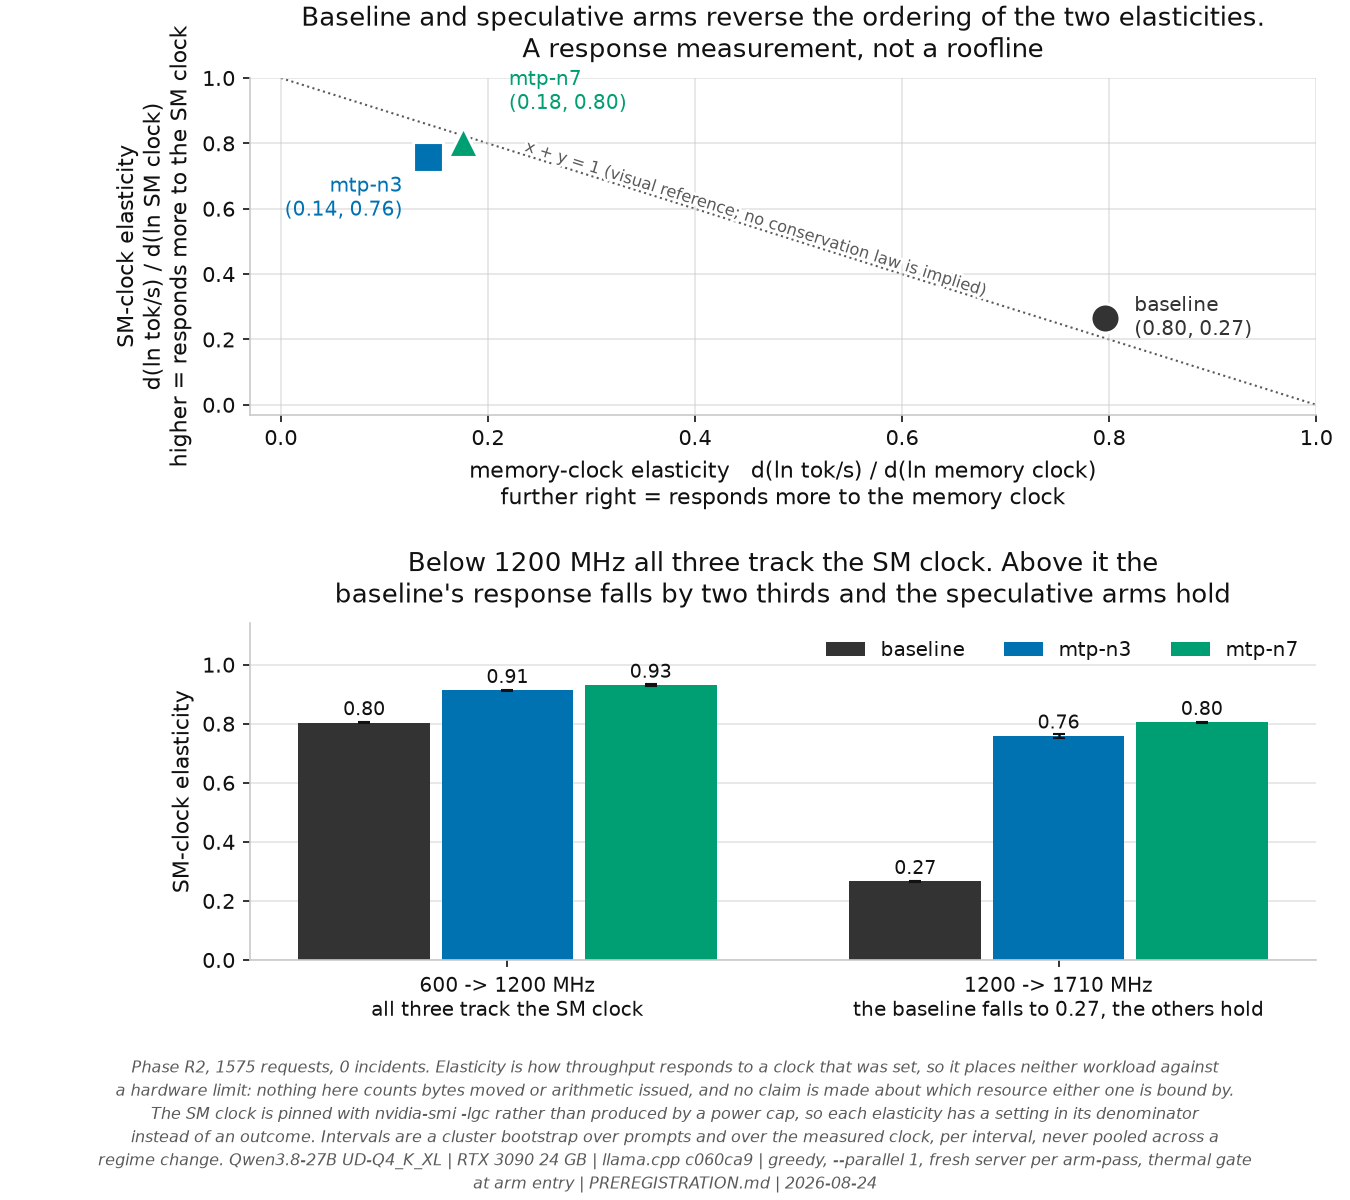
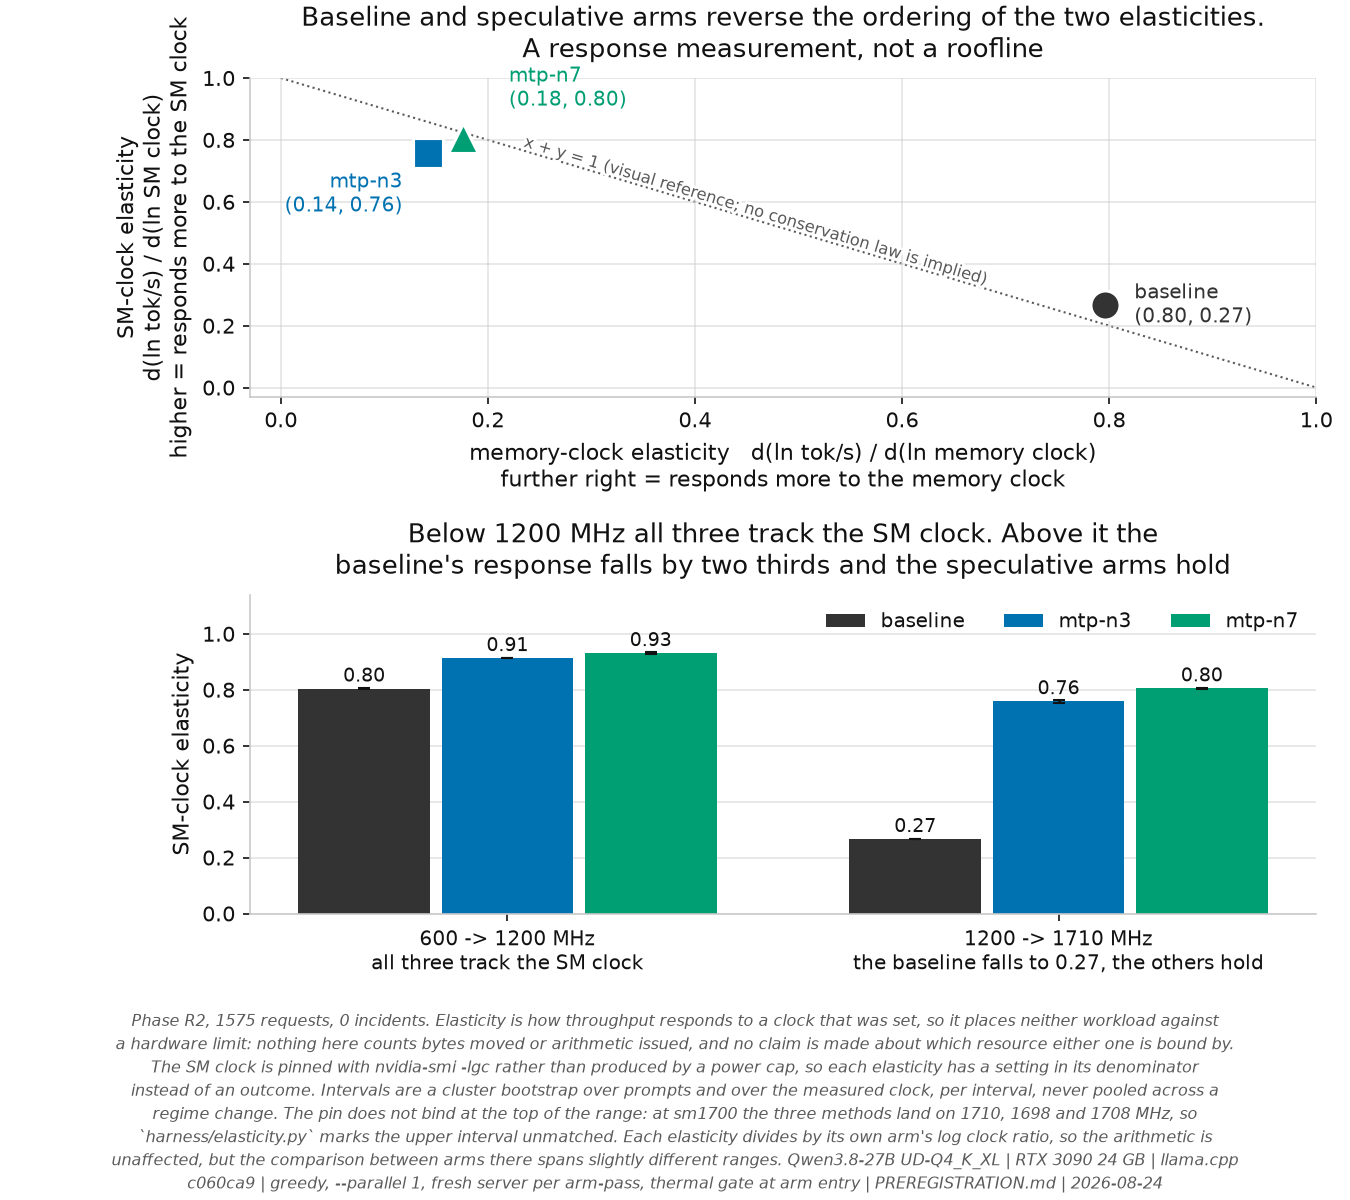
figures: a withdrawn claim survived in a caption, because the guard for it read only markdown
An audit of the figures for overstatement, done twice over: the drawn strings
extracted from the plotting modules and checked as text, and the rendered PNGs
read as pictures, because axis limits and missing intervals are how a figure
overstates and no grep finds them.

**The caption of plot_width_partition.png said the four-build intervention
"rules out warp count as the cause".** That exact phrase is already on
`test_no_committed_document_still_carries_a_withdrawn_claim`'s list of claims
this study has withdrawn. Every one of the six warp reports refuses it:
warp_intervention, _down2, _hostB and _down2_hostB all end COMPARISON VOID
under the registered gate "intervention did not touch widths it should not
have", and the two v2 reports say the edit "never reached the kernel. Resolve
that before reading anything else here." docs/GREEDY_DIVERGENCE.md states it
correctly -- "the intervention does not support the warp count as the cause" --
and the documents were clean, because the guard scanned `git ls-files "*.md"`
and a figure caption is not markdown. The caption now says what the document
says, names the 3-of-18 result behind it, and says the four-build set is void
on its own gates.

**plot_bound_by.png drew a between-method contrast from an interval its own
report marks unmatched.** At sm1700 the pin does not bind and the three methods
land on 1710, 1698 and 1708 MHz, over the 0.5 % spread that makes
[…]

diff --git a/harness/test_harness.py b/harness/test_harness.py
@@ -4023,19 +4023,44 @@ class TestReadmeSaysWhatTheArtifactsSay(unittest.TestCase):
                   "costs a fixed c", "rules out warp count")
         marks = ("withdraw", "Withdraw", "used to read", "an earlier version", "earlier draft",
                  "no longer", "retract")
+        # Markdown was the whole of this check, and "rules out warp count" -- on this very list,
+        # withdrawn because every one of the six warp reports is either COMPARISON VOID or says
+        # the edited table row never reached the kernel -- survived in the caption of
+        # plot_width_partition.png, which is the figure the README leads a section with. The
+        # documents were clean; the picture was not. The prose surfaces built for the attribution
+        # checks are reused here rather than restated, so the two cannot drift apart.
+        _P = AClaimAboutWhatOthersDidNeedsEvidenceOfWhatTheyDid
+        names = [n for n in out.stdout.split("\n") if n]
+        names += _P._python_prose() + tracked_shell() + tracked_metadata()
         found = []
-        for name in out.stdout.split("\n"):
-            if not name or "PREREGISTRATION" in name or name.startswith(("upstream/", "llamacpp")):
+        for name in names:
+            if "PREREGISTRATION" in name or name.startswith(("upstream/", "llamacpp")):
                 continue
             f = self.ROOT / name
             if not f.exists():
                 continue
-            for i, line in enumerate(f.read_text(encoding="utf-8", errors="replace").splitlines(), 1):
+            markdown = name.endswith(".md")
+            text = f.read_text(encoding="utf-8", errors="replace") if markdown \
+                else _P._prose_of(f)
+            # Use, not mention -- the same rule `_sentences` applies, and for the same reason:
+            # prose that quotes a withdrawn claim in order to say it is withdrawn is not
+            # asserting it. Five of the first six hits after this check was widened were of that
+            # shape, including one in this file. Blanked over the whole text rather than per
+            # line, because a quotation wraps: `plot_phase_m.py` opens the quote and says "It
+            # used to read" on one line and closes it on the next, so a per-line pass saw
+            # neither the mark nor the opening quote.
+            text = re.sub(r'"[^"]{0,240}"', " ", text, flags=re.S)
+            text = re.sub(r"`[^`]{0,240}`", " ", text, flags=re.S)
+            for i, line in enumerate(text.splitlines(), 1):
                 if any(m in line for m in marks):
                     continue
                 for c in claims:
                     if c in line:
-                        found.append(f"{name}:{i} {c!r}")
+                        # For markdown the index IS the file line. For the other surfaces it is
+                        # an index into extracted prose, which would print as a line number and
+                        # point at unrelated code, so those report the sentence instead.
+                        where = f"{name}:{i}" if markdown else f"{name}"
+                        found.append(f"{where} {c!r} in {line.strip()[:90]!r}")
         self.assertFalse(found,
                          "these lines assert something this study has withdrawn, and do not mark "
                          "themselves as quoting it: " + "; ".join(found))
@@ -6954,6 +6979,26 @@ class AClaimAboutWhatOthersDidNeedsEvidenceOfWhatTheyDid(unittest.TestCase):
                     out.append(t.string)
         except Exception:                                          # noqa: BLE001
             pass
+        # In a plotting module the string literals ARE the product: a title, a caption and an
+        # annotation reach the reader as pixels, and nothing else here does. Skipping them is
+        # what let "rules out warp count" -- a phrase this file already lists as withdrawn --
+        # sit in plot_width_partition.png's caption while every document was clean. Only the
+        # plot modules, because elsewhere a string literal is usually a fixture.
+        if "plot" in Path(path).name:
+            try:
+                for node in _ast.walk(_ast.parse(text)):
+                    if isinstance(node, _ast.Constant) and isinstance(node.value, str):
+                        if len(node.value.split()) >= 3:
+                            out.append(node.value)
+                    elif isinstance(node, _ast.JoinedStr):
+                        joined = "".join(
+                            v.value if isinstance(v, _ast.Constant)
+                            and isinstance(v.value, str) else " "
+                            for v in node.values)
+                        if len(joined.split()) >= 3:
+                            out.append(joined)
+            except SyntaxError:
+                pass
         try:
             for n in _ast.walk(_ast.parse(text)):
                 if isinstance(n, (_ast.Module, _ast.ClassDef, _ast.FunctionDef,

diff --git a/analysis/plot.py b/analysis/plot.py
@@ -611,9 +611,12 @@ def fig_width_partition(result):
                f"number is how much of the cell that is. Those pairs carry no fork position, so a "
                f"block is weaker than 100 % agreement on where output forks. The groups differ on "
                f"{differ} of {len(prompts)} prompts. The blocks span both drafters, so drafter "
-               f"identity does not predict the grouping while width does; the four-build "
-               f"intervention separately rules out warp count as the cause. Pass 1; identical in "
-               f"all five. w is the kernel's ncols_dst.")
+               f"identity does not predict the grouping while width does. A pre-registered "
+               f"warp-count intervention does NOT support warp count as the cause -- its "
+               f"registered prediction held on 3 of the 18 prompts that can discriminate -- and "
+               f"the four-build set that replaced it is void on its own validity gates, so "
+               f"nothing here rules the warp count out. Pass 1; identical in all five. w is the "
+               f"kernel's ncols_dst.")
 
 
 # ------------------------------------------------------------------ 5. what speculation is bound by
@@ -739,7 +742,12 @@ def fig_bound_by(res):
                "resource either one is bound by. The SM clock is pinned with nvidia-smi -lgc "
                "rather than produced by a power cap, so each elasticity has a setting in its "
                "denominator instead of an outcome. Intervals are a cluster bootstrap over prompts "
-               "and over the measured clock, per interval, never pooled across a regime change.")
+               "and over the measured clock, per interval, never pooled across a regime change. "
+               "The pin does not bind at the top of the range: at sm1700 the three methods land "
+               "on 1710, 1698 and 1708 MHz, so `harness/elasticity.py` marks the upper interval "
+               "unmatched. Each elasticity divides by its own arm's log clock ratio, so the "
+               "arithmetic is unaffected, but the comparison between arms there spans slightly "
+               "different ranges.")
 
 
 def main():
